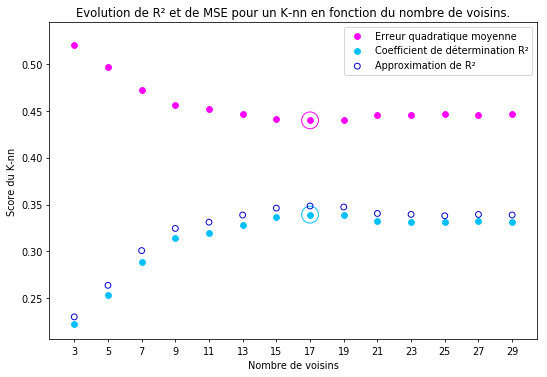
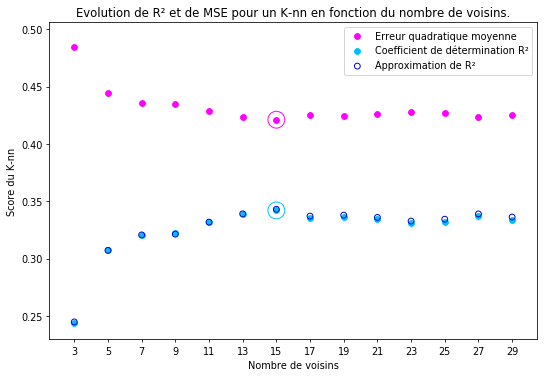
Add markdown files

diff --git a/OpenClassroomsEvaluerPerformances/TP2/TP2.md b/OpenClassroomsEvaluerPerformances/TP2/TP2.md
@@ -121,23 +121,23 @@ for mean, std, params in zip(clf_mse.cv_results_['mean_test_score'], # score moy
 ```
 
     Meilleur hyperparamètre sur le jeu d'entraînement pour la métrique MSE:
-    	{'n_neighbors': 17}
+    	{'n_neighbors': 15}
     
     Résultats de la recherche sur grille pour la métrique MSE:
-    	mse = 0.520 (+/-0.183) for {'n_neighbors': 3}
-    	mse = 0.497 (+/-0.113) for {'n_neighbors': 5}
-    	mse = 0.472 (+/-0.105) for {'n_neighbors': 7}
-    	mse = 0.456 (+/-0.116) for {'n_neighbors': 9}
-    	mse = 0.452 (+/-0.114) for {'n_neighbors': 11}
-    	mse = 0.447 (+/-0.127) for {'n_neighbors': 13}
-    	mse = 0.442 (+/-0.129) for {'n_neighbors': 15}
-    	mse = 0.440 (+/-0.122) for {'n_neighbors': 17}
-    	mse = 0.441 (+/-0.120) for {'n_neighbors': 19}
-    	mse = 0.445 (+/-0.129) for {'n_neighbors': 21}
-    	mse = 0.446 (+/-0.132) for {'n_neighbors': 23}
-    	mse = 0.447 (+/-0.132) for {'n_neighbors': 25}
-    	mse = 0.446 (+/-0.130) for {'n_neighbors': 27}
-    	mse = 0.446 (+/-0.130) for {'n_neighbors': 29}
+    	mse = 0.484 (+/-0.126) for {'n_neighbors': 3}
+    	mse = 0.444 (+/-0.109) for {'n_neighbors': 5}
+    	mse = 0.435 (+/-0.110) for {'n_neighbors': 7}
+    	mse = 0.435 (+/-0.132) for {'n_neighbors': 9}
+    	mse = 0.428 (+/-0.119) for {'n_neighbors': 11}
+    	mse = 0.424 (+/-0.102) for {'n_neighbors': 13}
+    	mse = 0.421 (+/-0.094) for {'n_neighbors': 15}
+    	mse = 0.425 (+/-0.077) for {'n_neighbors': 17}
+    	mse = 0.424 (+/-0.077) for {'n_neighbors': 19}
+    	mse = 0.426 (+/-0.075) for {'n_neighbors': 21}
+    	mse = 0.428 (+/-0.072) for {'n_neighbors': 23}
+    	mse = 0.427 (+/-0.070) for {'n_neighbors': 25}
+    	mse = 0.424 (+/-0.064) for {'n_neighbors': 27}
+    	mse = 0.425 (+/-0.066) for {'n_neighbors': 29}
 
 
 
@@ -147,7 +147,7 @@ m = "Erreur quadratique moyenne obtenue sur le jeu de test en optimisant MSE : {
 print(m.format(metrics.mean_squared_error(y_test, y_pred_mse)))
 ```
 
-    Erreur quadratique moyenne obtenue sur le jeu de test en optimisant MSE : 0.416
+    Erreur quadratique moyenne obtenue sur le jeu de test en optimisant MSE : 0.466
 
 
 
@@ -183,23 +183,23 @@ for mean, std, params in zip(clf_R2.cv_results_['mean_test_score'], # score moye
 ```
 
     Meilleur hyperparamètre sur le jeu d'entraînement pour la métrique R²:
-    	{'n_neighbors': 17}
+    	{'n_neighbors': 15}
     
     Résultats de la recherche sur grille pour la métrique R²:
-    	R2 = 0.223 (+/-0.189) for {'n_neighbors': 3}
-    	R2 = 0.254 (+/-0.136) for {'n_neighbors': 5}
-    	R2 = 0.289 (+/-0.178) for {'n_neighbors': 7}
-    	R2 = 0.314 (+/-0.169) for {'n_neighbors': 9}
-    	R2 = 0.320 (+/-0.180) for {'n_neighbors': 11}
-    	R2 = 0.329 (+/-0.180) for {'n_neighbors': 13}
-    	R2 = 0.337 (+/-0.167) for {'n_neighbors': 15}
-    	R2 = 0.339 (+/-0.157) for {'n_neighbors': 17}
-    	R2 = 0.339 (+/-0.142) for {'n_neighbors': 19}
-    	R2 = 0.333 (+/-0.142) for {'n_neighbors': 21}
-    	R2 = 0.332 (+/-0.140) for {'n_neighbors': 23}
-    	R2 = 0.331 (+/-0.130) for {'n_neighbors': 25}
-    	R2 = 0.332 (+/-0.133) for {'n_neighbors': 27}
-    	R2 = 0.332 (+/-0.127) for {'n_neighbors': 29}
+    	R2 = 0.244 (+/-0.122) for {'n_neighbors': 3}
+    	R2 = 0.307 (+/-0.084) for {'n_neighbors': 5}
+    	R2 = 0.321 (+/-0.092) for {'n_neighbors': 7}
+    	R2 = 0.322 (+/-0.126) for {'n_neighbors': 9}
+    	R2 = 0.332 (+/-0.108) for {'n_neighbors': 11}
+    	R2 = 0.339 (+/-0.086) for {'n_neighbors': 13}
+    	R2 = 0.342 (+/-0.081) for {'n_neighbors': 15}
+    	R2 = 0.335 (+/-0.062) for {'n_neighbors': 17}
+    	R2 = 0.336 (+/-0.059) for {'n_neighbors': 19}
+    	R2 = 0.334 (+/-0.056) for {'n_neighbors': 21}
+    	R2 = 0.331 (+/-0.061) for {'n_neighbors': 23}
+    	R2 = 0.332 (+/-0.056) for {'n_neighbors': 25}
+    	R2 = 0.337 (+/-0.046) for {'n_neighbors': 27}
+    	R2 = 0.334 (+/-0.054) for {'n_neighbors': 29}
 
 
 
@@ -328,50 +328,75 @@ add_model_scores('k-nn', y_pred_mse)
 df = pd.DataFrame(model_comparison)
 df['best'] = df.min(axis=1)
 
-df.style
+df
 ```
 
 
 
 
-<style  type="text/css" >
-</style><table id="T_11c4725a_83b2_11e9_9f73_897289b9b835" ><thead>    <tr>        <th class="blank level0" ></th>        <th class="col_heading level0 col0" >random</th>        <th class="col_heading level0 col1" >constant</th>        <th class="col_heading level0 col2" >k-nn</th>        <th class="col_heading level0 col3" >best</th>    </tr></thead><tbody>
-                <tr>
-                        <th id="T_11c4725a_83b2_11e9_9f73_897289b9b835level0_row0" class="row_heading level0 row0" >-r2</th>
-                        <td id="T_11c4725a_83b2_11e9_9f73_897289b9b835row0_col0" class="data row0 col0" >4.31721</td>
-                        <td id="T_11c4725a_83b2_11e9_9f73_897289b9b835row0_col1" class="data row0 col1" >0.0052192</td>
-                        <td id="T_11c4725a_83b2_11e9_9f73_897289b9b835row0_col2" class="data row0 col2" >-0.300851</td>
-                        <td id="T_11c4725a_83b2_11e9_9f73_897289b9b835row0_col3" class="data row0 col3" >-0.300851</td>
-            </tr>
-            <tr>
-                        <th id="T_11c4725a_83b2_11e9_9f73_897289b9b835level0_row1" class="row_heading level0 row1" >mse</th>
-                        <td id="T_11c4725a_83b2_11e9_9f73_897289b9b835row1_col0" class="data row1 col0" >3.16042</td>
-                        <td id="T_11c4725a_83b2_11e9_9f73_897289b9b835row1_col1" class="data row1 col1" >0.597477</td>
-                        <td id="T_11c4725a_83b2_11e9_9f73_897289b9b835row1_col2" class="data row1 col2" >0.415557</td>
-                        <td id="T_11c4725a_83b2_11e9_9f73_897289b9b835row1_col3" class="data row1 col3" >0.415557</td>
-            </tr>
-            <tr>
-                        <th id="T_11c4725a_83b2_11e9_9f73_897289b9b835level0_row2" class="row_heading level0 row2" >rmse</th>
-                        <td id="T_11c4725a_83b2_11e9_9f73_897289b9b835row2_col0" class="data row2 col0" >1.77776</td>
-                        <td id="T_11c4725a_83b2_11e9_9f73_897289b9b835row2_col1" class="data row2 col1" >0.772966</td>
-                        <td id="T_11c4725a_83b2_11e9_9f73_897289b9b835row2_col2" class="data row2 col2" >0.644637</td>
-                        <td id="T_11c4725a_83b2_11e9_9f73_897289b9b835row2_col3" class="data row2 col3" >0.644637</td>
-            </tr>
-            <tr>
-                        <th id="T_11c4725a_83b2_11e9_9f73_897289b9b835level0_row3" class="row_heading level0 row3" >rse</th>
-                        <td id="T_11c4725a_83b2_11e9_9f73_897289b9b835row3_col0" class="data row3 col0" >5.2896</td>
-                        <td id="T_11c4725a_83b2_11e9_9f73_897289b9b835row3_col1" class="data row3 col1" >1</td>
-                        <td id="T_11c4725a_83b2_11e9_9f73_897289b9b835row3_col2" class="data row3 col2" >0.695519</td>
-                        <td id="T_11c4725a_83b2_11e9_9f73_897289b9b835row3_col3" class="data row3 col3" >0.695519</td>
-            </tr>
-            <tr>
-                        <th id="T_11c4725a_83b2_11e9_9f73_897289b9b835level0_row4" class="row_heading level0 row4" >rss</th>
-                        <td id="T_11c4725a_83b2_11e9_9f73_897289b9b835row4_col0" class="data row4 col0" >1517</td>
-                        <td id="T_11c4725a_83b2_11e9_9f73_897289b9b835row4_col1" class="data row4 col1" >286.789</td>
-                        <td id="T_11c4725a_83b2_11e9_9f73_897289b9b835row4_col2" class="data row4 col2" >199.467</td>
-                        <td id="T_11c4725a_83b2_11e9_9f73_897289b9b835row4_col3" class="data row4 col3" >199.467</td>
-            </tr>
-    </tbody></table>
+<div>
+<style scoped>
+    .dataframe tbody tr th:only-of-type {
+        vertical-align: middle;
+    }
+
+    .dataframe tbody tr th {
+        vertical-align: top;
+    }
+
+    .dataframe thead th {
+        text-align: right;
+    }
+</style>
+<table border="1" class="dataframe">
+  <thead>
+    <tr style="text-align: right;">
+      <th></th>
+      <th>random</th>
+      <th>constant</th>
+      <th>k-nn</th>
+      <th>best</th>
+    </tr>
+  </thead>
+  <tbody>
+    <tr>
+      <td>mse</td>
+      <td>3.093750</td>
+      <td>0.677457</td>
+      <td>0.466333</td>
+      <td>0.466333</td>
+    </tr>
+    <tr>
+      <td>rmse</td>
+      <td>1.758906</td>
+      <td>0.823078</td>
+      <td>0.682886</td>
+      <td>0.682886</td>
+    </tr>
+    <tr>
+      <td>rss</td>
+      <td>1485.000000</td>
+      <td>325.179366</td>
+      <td>223.840000</td>
+      <td>223.840000</td>
+    </tr>
+    <tr>
+      <td>rse</td>
+      <td>4.566710</td>
+      <td>1.000000</td>
+      <td>0.688359</td>
+      <td>0.688359</td>
+    </tr>
+    <tr>
+      <td>-r2</td>
+      <td>3.583451</td>
+      <td>0.003666</td>
+      <td>-0.309118</td>
+      <td>-0.309118</td>
+    </tr>
+  </tbody>
+</table>
+</div>
 
 
 
